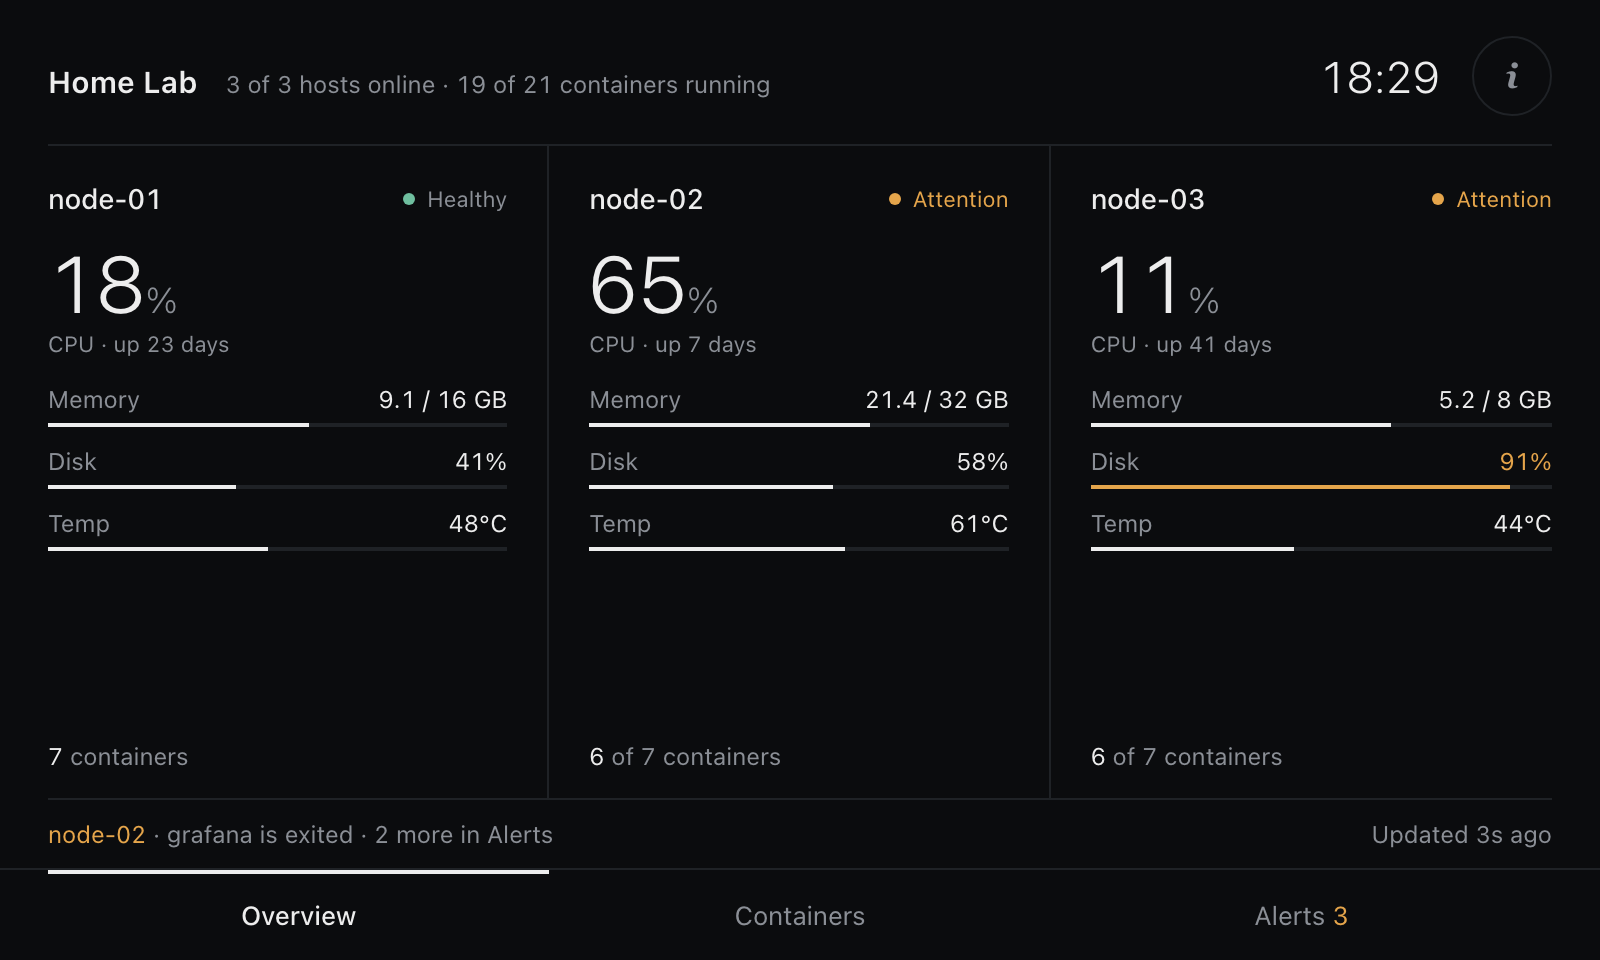
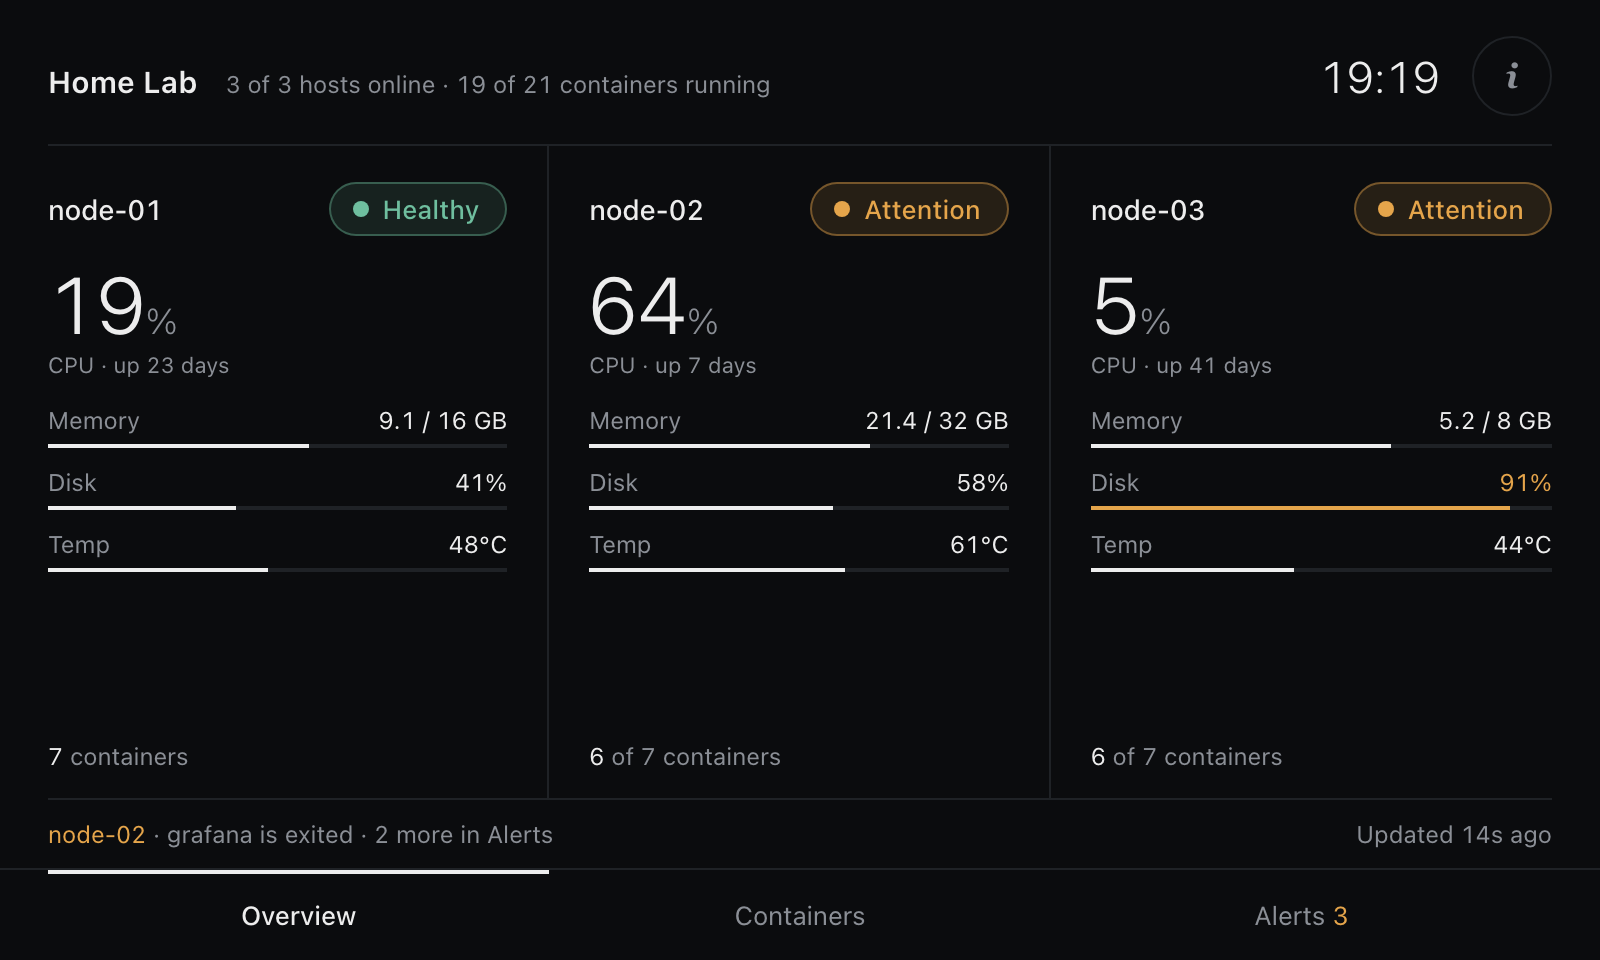
Show server status as a larger tag
Healthy, Attention and Offline are now tinted pills with a dot instead of small
text. With four or more servers the tag stacks under the name so names are not
clipped. Overview screenshot updated.

diff --git a/pi/web/index.html b/pi/web/index.html
@@ -41,13 +41,20 @@
   .host:last-child { padding-right: 0; border-right: 0; }
   .host .top { display: flex; align-items: center; justify-content: space-between; gap: 8px; }
   .host .name { font-size: 14px; font-weight: 500; overflow: hidden; text-overflow: ellipsis; white-space: nowrap; }
-  .state { display: flex; align-items: center; gap: 6px; font-size: 11px; color: var(--muted); white-space: nowrap; }
+  /* Server status as a tag: tinted background, outline and a dot, coloured by state */
+  .state { display: flex; flex: none; align-items: center; gap: 7px; padding: 5px 13px 5px 11px; border-radius: 999px;
+           font-size: 13px; font-weight: 500; letter-spacing: .01em; white-space: nowrap;
+           color: var(--ok); background: rgba(111, 191, 159, .12); border: 1px solid rgba(111, 191, 159, .38); }
+  .state .dot { width: 8px; height: 8px; }
+  /* Four or more servers make narrow columns: put the tag under the name so the name is never clipped */
+  #overview.stacked .top { flex-direction: column; align-items: flex-start; gap: 8px; }
+  #overview.stacked .name { max-width: 100%; }
   .dot { width: 6px; height: 6px; border-radius: 50%; background: var(--ok); flex: none; }
   .warn .dot, .dot.warn { background: var(--warn); }
   .down .dot, .dot.down { background: var(--down); }
   .dot.off { background: var(--off); }
-  .state.warn { color: var(--warn); }
-  .state.down { color: var(--down); }
+  .state.warn { color: var(--warn); background: rgba(229, 165, 75, .12); border-color: rgba(229, 165, 75, .42); }
+  .state.down { color: var(--down); background: rgba(226, 104, 92, .12); border-color: rgba(226, 104, 92, .42); }
   .big { font-size: 40px; font-weight: 300; line-height: 1; }
   .big small { font-size: 18px; color: var(--muted); }
   .caption { font-size: 11px; color: var(--muted); margin-top: 4px; }
@@ -290,6 +297,7 @@
   function renderOverview() {
     const el = $("overview");
     el.style.gridTemplateColumns = `repeat(${Math.max(1, state.hosts.length)}, minmax(0, 1fr))`;
+    el.classList.toggle("stacked", state.hosts.length >= 4);
     el.innerHTML = state.hosts.map((h) => {
       const head = `<div class="top"><span class="name">${esc(h.name)}</span>` +
                    `<span class="state ${h.status === "ok" ? "" : h.status}"><span class="dot"></span>${stateLabel[h.status]}</span></div>`;
